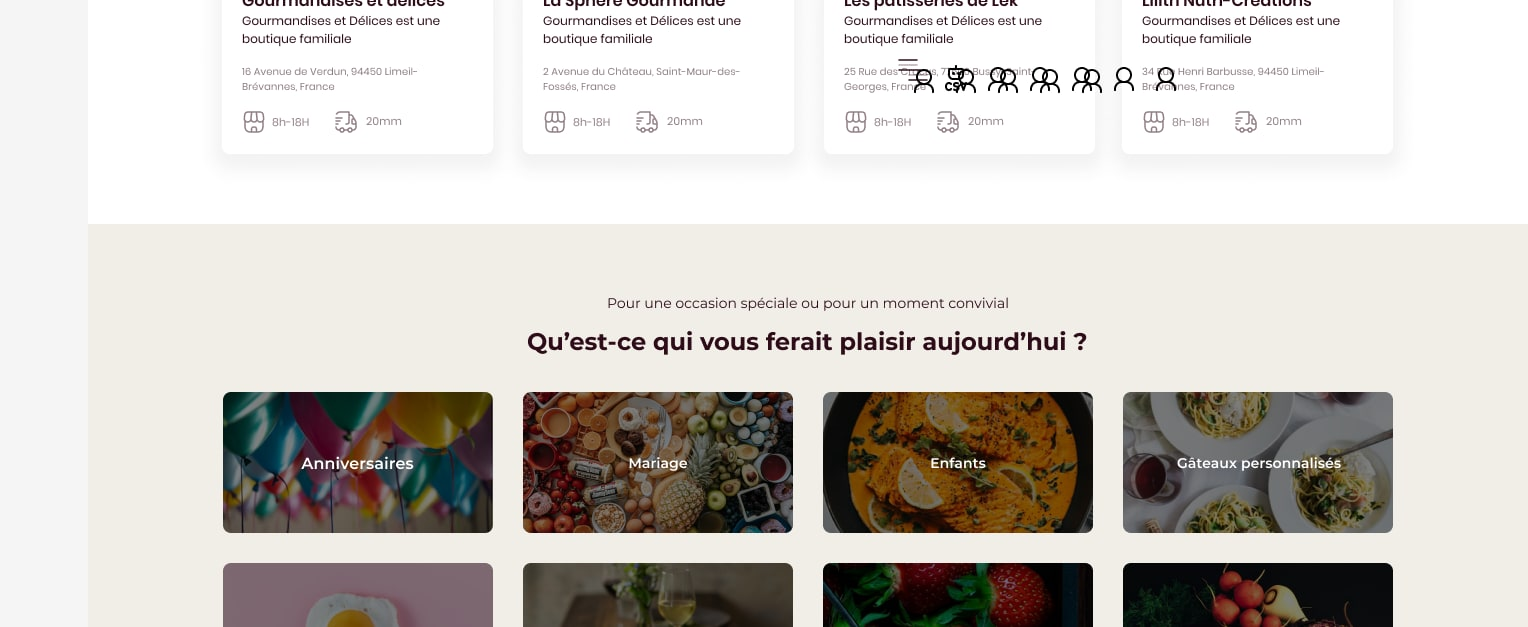
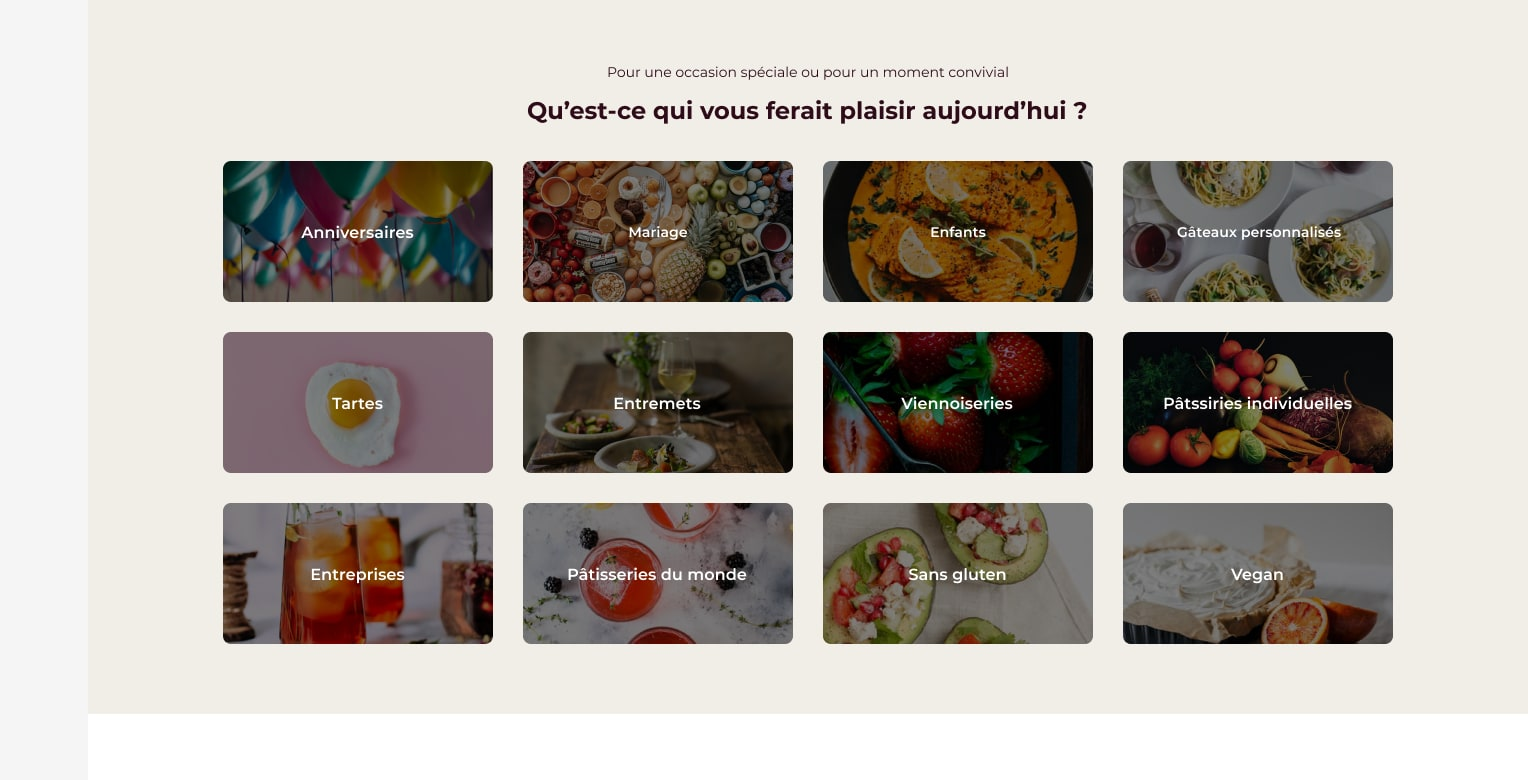
Retire Ébénisterie du Futur, corrige une capture buguée, ajoute le zoom sur les images UX/UI
- Retire complètement le projet Ébénisterie du Futur (page, assets, références, pagination) en attendant Medteck
- Corrige la capture "categories" de Mon Chef Pâtissier : l'ancien cadrage montrait une icône de partenaire cassée dans le fichier Figma source ; recadrée pour montrer la grille de catégories, propre et complète
- Ajoute un lightbox : cliquer sur une capture (browser-frame, mosaïque, galerie) dans une fiche projet UX/UI l'affiche en plein écran, fermeture au clic à l'extérieur, sur le bouton ou avec Échap

diff --git a/realisations.html b/realisations.html
@@ -140,23 +140,6 @@
                 </article>
 
                 <article class="feature-card" data-categories="ux-ui">
-                    <a href="./projet-6.html" class="feature-card-link">
-                        <div class="media-frame">
-                            <img src="./assets/images/ebenisterie-du-futur/hero.jpg" alt="Page d'accueil du site Ébénisterie du Futur" loading="lazy" decoding="async">
-                        </div>
-                        <div class="feature-card-overlay"></div>
-                        <div class="feature-card-info">
-                            <div class="category-tags">
-                                <span class="category-tag">UX/UI</span>
-                            </div>
-                            <h2 class="feature-card-title">Ébénisterie du Futur</h2>
-                            <p class="feature-card-desc">Design d'interface pour le site d'un atelier d'ébénisterie.</p>
-                            <span class="feature-card-cta">Voir le projet &rarr;</span>
-                        </div>
-                    </a>
-                </article>
-
-                <article class="feature-card" data-categories="ux-ui">
                     <a href="./projet-7.html" class="feature-card-link">
                         <div class="media-frame">
                             <img src="./assets/images/chic-resto/accueil.png" alt="Écran d'accueil de l'application Chic-Resto" loading="lazy" decoding="async">

diff --git a/js/main.js b/js/main.js
@@ -90,4 +90,47 @@ document.addEventListener("DOMContentLoaded", () => {
       });
     });
   }
+
+  const zoomableImages = document.querySelectorAll(
+    ".browser-frame img, .ui-mosaic-screen img, .ui-screen img"
+  );
+
+  if (zoomableImages.length > 0) {
+    const overlay = document.createElement("div");
+    overlay.className = "lightbox-overlay";
+    overlay.innerHTML =
+      '<button type="button" class="lightbox-close" aria-label="Fermer">&times;</button><img src="" alt="">';
+    document.body.appendChild(overlay);
+
+    const overlayImg = overlay.querySelector("img");
+    const closeBtn = overlay.querySelector(".lightbox-close");
+
+    const openLightbox = (src, alt) => {
+      overlayImg.src = src;
+      overlayImg.alt = alt || "";
+      overlay.classList.add("is-open");
+      document.body.style.overflow = "hidden";
+    };
+
+    const closeLightbox = () => {
+      overlay.classList.remove("is-open");
+      document.body.style.overflow = "";
+    };
+
+    zoomableImages.forEach((img) => {
+      img.addEventListener("click", () => openLightbox(img.src, img.alt));
+    });
+
+    overlay.addEventListener("click", (event) => {
+      if (event.target === overlay) closeLightbox();
+    });
+
+    closeBtn.addEventListener("click", closeLightbox);
+
+    document.addEventListener("keydown", (event) => {
+      if (event.key === "Escape" && overlay.classList.contains("is-open")) {
+        closeLightbox();
+      }
+    });
+  }
 });

diff --git a/css/styles.css b/css/styles.css
@@ -1156,6 +1156,61 @@ p {
   height: auto;
 }
 
+.browser-frame img,
+.ui-mosaic-screen img,
+.ui-screen img {
+  cursor: zoom-in;
+}
+
+.lightbox-overlay {
+  position: fixed;
+  inset: 0;
+  z-index: 200;
+  display: none;
+  align-items: center;
+  justify-content: center;
+  padding: 3rem 1.5rem;
+  background: rgba(0, 0, 0, 0.92);
+  cursor: zoom-out;
+}
+
+.lightbox-overlay.is-open {
+  display: flex;
+}
+
+.lightbox-overlay img {
+  max-width: 100%;
+  max-height: 100%;
+  width: auto;
+  height: auto;
+  border-radius: 0.5rem;
+  box-shadow: 0 2rem 4rem -1rem rgba(0, 0, 0, 0.8);
+  cursor: default;
+}
+
+.lightbox-close {
+  position: absolute;
+  top: 1.25rem;
+  right: 1.25rem;
+  width: 2.75rem;
+  height: 2.75rem;
+  border-radius: 50%;
+  border: 1px solid rgba(255, 255, 255, 0.3);
+  background: rgba(255, 255, 255, 0.08);
+  color: #fff;
+  font-size: 1.5rem;
+  line-height: 1;
+  cursor: pointer;
+  display: flex;
+  align-items: center;
+  justify-content: center;
+  transition: background 0.2s ease;
+}
+
+.lightbox-close:hover {
+  background: rgba(255, 255, 255, 0.18);
+}
+
 .project-pagination {
   margin-top: 4rem;
   display: flex;

diff --git a/projet-7.html b/projet-7.html
@@ -105,7 +105,7 @@
             </div>
 
             <nav class="project-pagination" aria-label="Navigation entre projets">
-                <a href="./projet-6.html">&larr; Projet précédent</a>
+                <a href="./projet-5.html">&larr; Projet précédent</a>
                 <a href="./projet-8.html">Projet suivant &rarr;</a>
             </nav>
         </section>

diff --git a/projet-5.html b/projet-5.html
@@ -71,7 +71,7 @@
 
             <nav class="project-pagination" aria-label="Navigation entre projets">
                 <a href="./projet-4.html">&larr; Projet précédent</a>
-                <a href="./projet-6.html">Projet suivant &rarr;</a>
+                <a href="./projet-7.html">Projet suivant &rarr;</a>
             </nav>
         </section>
     </main>
